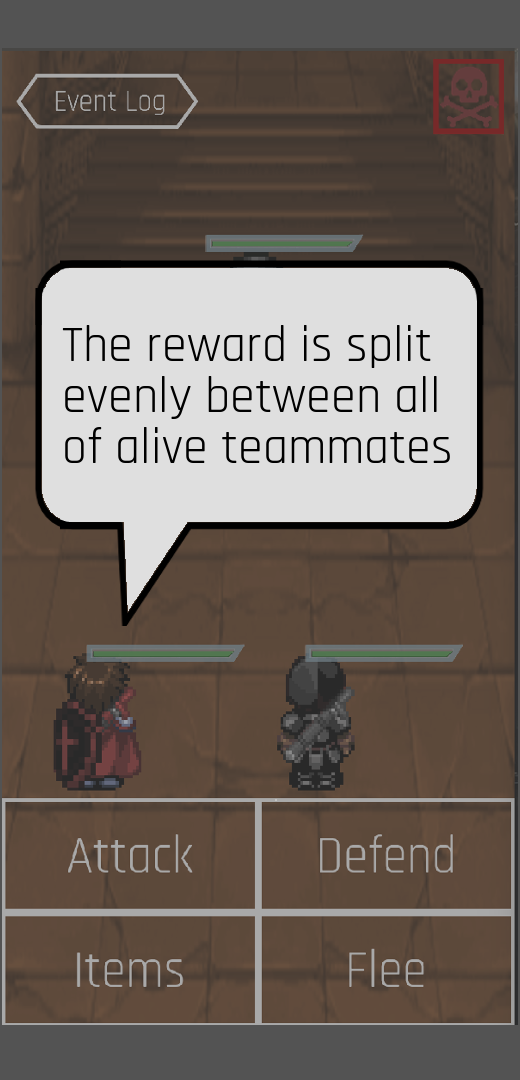
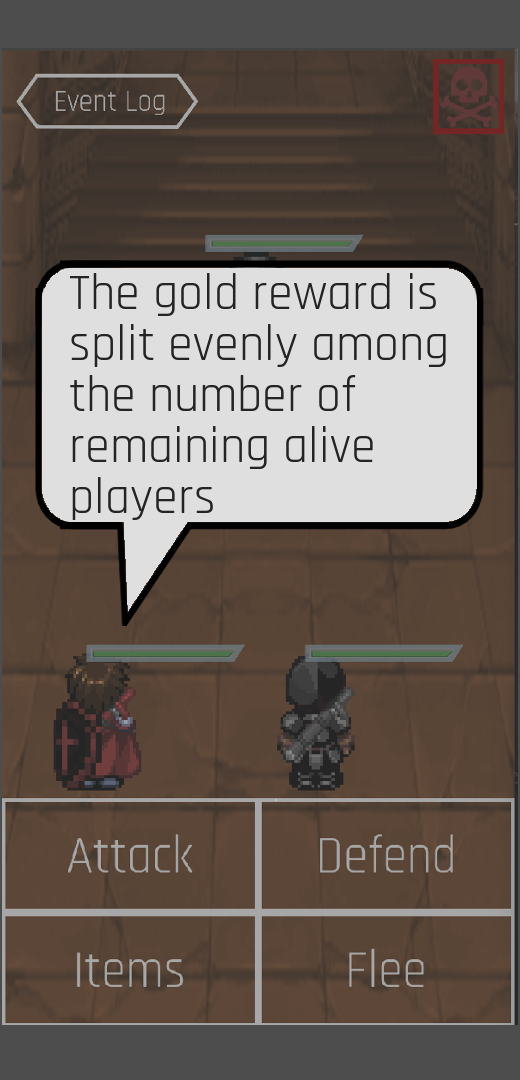
opening instructions

Changed region(s): [[0.1231, 0.2444, 0.8615, 0.4889]]

diff --git a/core/src/com/jnv/betrayal/popup/OpeningInstructions.java b/core/src/com/jnv/betrayal/popup/OpeningInstructions.java
@@ -20,15 +20,16 @@ import java.util.ArrayList;
 import java.util.List;
 
 
-public class Instructions extends Popup {
+public class OpeningInstructions extends UncloseablePopup{
 
 	private Image rightArrow, leftArrow, exitButton, background, content;
 	private Label title, pageNum;
 	private List<Texture> textures;
 	private Label.LabelStyle font40;
 	private int currentContent;
+	private boolean happenOnce = false;
 
-	public Instructions(Betrayal game) {
+	public OpeningInstructions(Betrayal game) {
 		super(game);
 		textures = new ArrayList<Texture>();
 
@@ -36,7 +37,11 @@ public class Instructions extends Popup {
 		font40 = FontManager.getFont40();
 		loadTextures();
 		loadButtons();
+		exitButton.setVisible(false);
+		new OKPopup(game, "Please Read Through\n The Instructions");
+
 	}
+
 
 	private void loadButtons() {
 		loadBackground();
@@ -44,7 +49,6 @@ public class Instructions extends Popup {
 		loadLeftArrow();
 		loadRightArrow();
 		setPageNumber();
-		loadXButton();
 		loadTitle();
 	}
 
@@ -55,12 +59,22 @@ public class Instructions extends Popup {
 
 	private void nextContent(){
 		currentContent++;
-		if (currentContent==textures.size()) currentContent=0;
+		if (currentContent==textures.size()) currentContent--;
 		content.setDrawable(new TextureRegionDrawable(new TextureRegion(textures.get(currentContent))));
+		if(currentContent == textures.size()-1 && !happenOnce){
+			happenOnce = true;
+			new OKPopup(game, "Completed Instructions!"){
+				@Override
+				public void onConfirm() {
+					exitButton.setVisible(true);
+				}
+			};
+		}
 	}
 	private void previousContent(){
 		currentContent--;
-		if(currentContent<0) currentContent = textures.size()-1;
+		if(currentContent<0) currentContent++;
+		System.out.println("currentContent = " + currentContent);
 		content.setDrawable(new TextureRegionDrawable(new TextureRegion(textures.get(currentContent))));
 	}
 
@@ -110,7 +124,6 @@ public class Instructions extends Popup {
 		textures.add(getNewTexture("dungeonMonsterHealthScale"));
 		textures.add(getNewTexture("dungeonRewardSplit"));
 		textures.add(getNewTexture("dungeonDeathWarning"));
-
 
 	}
 

diff --git a/core/src/com/jnv/betrayal/gamestates/Menu.java b/core/src/com/jnv/betrayal/gamestates/Menu.java
@@ -16,15 +16,20 @@ import com.badlogic.gdx.utils.Align;
 import com.jnv.betrayal.main.Betrayal;
 import com.jnv.betrayal.popup.Instructions;
 import com.jnv.betrayal.popup.OKPopup;
+import com.jnv.betrayal.popup.OpeningInstructions;
 import com.jnv.betrayal.popup.Options;
 import com.jnv.betrayal.resources.FontManager;
 import com.jnv.betrayal.scene2d.InputListener;
 
 public class Menu extends GameState {
+	private boolean firstTimeOpen;
 
 	public Menu(GameStateManager gsm) {
 		super(gsm);
 		loadMenuButtons();
+		firstTimeOpen = false;	//todo change this to read from json file
+		if(!firstTimeOpen)
+			firstTimeOpenPopUps();
 	}
 
 	public void update(float dt) {
@@ -51,6 +56,20 @@ public class Menu extends GameState {
 		loadHallOfFameButton();
 		loadAboutButton();
 		//loadOptionsButton();
+	}
+
+
+	private void firstTimeOpenPopUps(){
+
+		firstTimeOpen = false;
+		new OKPopup(game,"Welcome to Betrayal"){
+			@Override
+			public void onConfirm() {
+
+				new OpeningInstructions(game);
+			}
+		};
+		//todo update JSON firstTImeOpen. when you first downlaod the game, JSON should be false
 	}
 
 	private void loadBackground() {

diff --git a/core/src/com/jnv/betrayal/gamestates/Dungeon.java b/core/src/com/jnv/betrayal/gamestates/Dungeon.java
@@ -56,7 +56,6 @@ public class Dungeon extends GameState {
 		field.turnManager.drawUI(YourTurn.INITIAL_DELAY);
 		field.adjustPlayerCardStatsBasedOnJobs();
 		field.adjustMonsterHealth();        // Adjusts MonsterHealth according to number of players
-		field.adjustReward();
 		stage.addActor(field);
 
 		// Start first turn

diff --git a/core/src/com/jnv/betrayal/popup/UncloseablePopup.java b/core/src/com/jnv/betrayal/popup/UncloseablePopup.java
@@ -1,0 +1,14 @@
+package com.jnv.betrayal.popup;
+
+import com.jnv.betrayal.main.Betrayal;
+
+/**
+ * Created by jphan on 8/15/16.
+ */
+public class UncloseablePopup extends Popup {
+    public UncloseablePopup(Betrayal game) {
+        super(game);
+        mask.clearListeners();
+    }
+
+}

diff --git a/core/src/com/jnv/betrayal/dungeon/cards/PlayerCard.java b/core/src/com/jnv/betrayal/dungeon/cards/PlayerCard.java
@@ -63,7 +63,7 @@ public class PlayerCard extends Card {
 	}
 
 	public void getReward(){
-		character.inventory.addGold(field.reward);
+		character.inventory.addGold(field.reward/field.playerZone.size());
 	}
 
 	public boolean hasCloak() {
